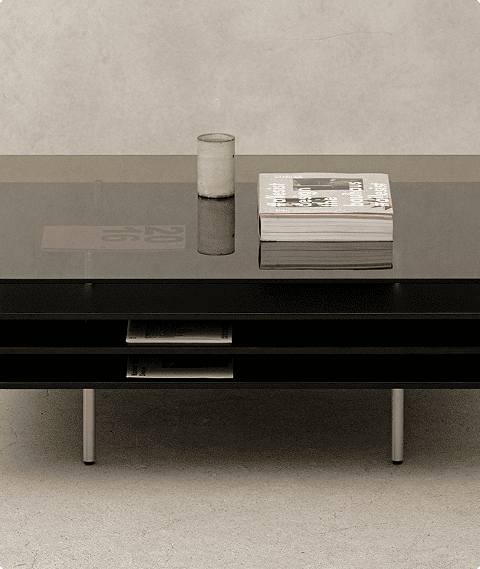
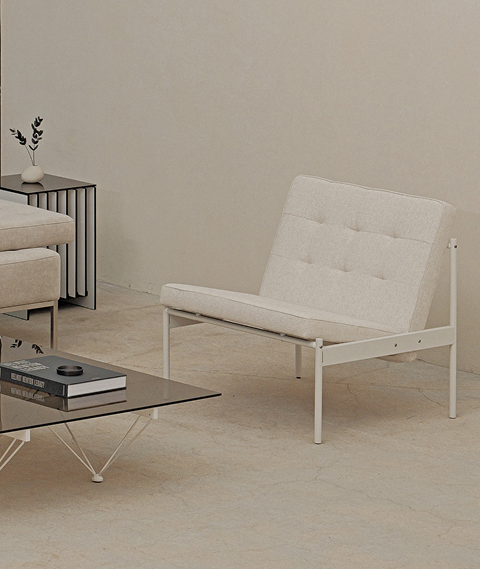
구매페이지까지 연결완

diff --git a/PRODUCT.html b/PRODUCT.html
@@ -152,10 +152,10 @@
                             </div>
                             <div class="goods-list">
                                 <div class="goods-left">
-                                    <span class="goods-name">Linear Sofa / Mix</span>
+                                    <span class="goods-name">Recto Lounge Chair</span>
                                     <div>
                                         <div class="goods-price">
-                                            <span class="price">2,240,000원</span>
+                                            <span class="price">850,000원</span>
                                             <span class="sale"></span>
                                         </div>
                                         <div class="goods-right">
@@ -171,11 +171,11 @@
                             </div>
                             <div class="goods-list">
                                 <div class="goods-left">
-                                    <span class="goods-name">Multi Sofa / Fabric</span>
+                                    <span class="goods-name">Homme Sofa | Leather</span>
                                     <div>
                                         <div class="goods-price">
-                                            <span class="price">2,030,000원</span>
-                                            <span class="sale">2,480,000원</span>
+                                            <span class="price">2,912,000원</span>
+                                            <span class="sale">3,640,000원</span>
                                         </div>
                                         <div class="goods-right">
                                             <p>20%</p>
@@ -190,11 +190,11 @@
                             </div>
                             <div class="goods-list">
                                 <div class="goods-left">
-                                    <span class="goods-name">Linear Sofa / Mix</span>
+                                    <span class="goods-name">Fin Shelf | S</span>
                                     <div>
                                         <div class="goods-price">
-                                            <span class="price">2,240,000원</span>
-                                            <span class="sale">2,480,000원</span>
+                                            <span class="price">468,000원</span>
+                                            <span class="sale">520,000원</span>
                                         </div>
                                         <div class="goods-right">
                                             <p>10%</p>
@@ -213,11 +213,11 @@
                             </div>
                             <div class="goods-list">
                                 <div class="goods-left">
-                                    <span class="goods-name">Linear Sofa / Mix</span>
+                                    <span class="goods-name">Lay Sofa | Fabric</span>
                                     <div>
                                         <div class="goods-price">
-                                            <span class="price">2,240,000원</span>
-                                            <span class="sale">2,480,000원</span>
+                                            <span class="price">3,078,000원</span>
+                                            <span class="sale">3,420,000원</span>
                                         </div>
                                         <div class="goods-right">
                                             <p>10%</p>
@@ -232,10 +232,10 @@
                             </div>
                             <div class="goods-list">
                                 <div class="goods-left">
-                                    <span class="goods-name">Linear Sofa / Mix</span>
+                                    <span class="goods-name">Largo Sofa | Leather</span>
                                     <div>
                                         <div class="goods-price">
-                                            <span class="price">2,240,000원</span>
+                                            <span class="price">4,120,000원</span>
                                             <span class="sale"></span>
                                         </div>
                                         <div class="goods-right">
@@ -251,11 +251,11 @@
                             </div>
                             <div class="goods-list">
                                 <div class="goods-left">
-                                    <span class="goods-name">Linear Sofa / Mix</span>
+                                    <span class="goods-name">Truss Shelf</span>
                                     <div>
                                         <div class="goods-price">
-                                            <span class="price">2,240,000원</span>
-                                            <span class="sale">2,480,000원</span>
+                                            <span class="price">549,000원</span>
+                                            <span class="sale">610,000원</span>
                                         </div>
                                         <div class="goods-right">
                                             <p>10%</p>
@@ -274,11 +274,11 @@
                             </div>
                             <div class="goods-list">
                                 <div class="goods-left">
-                                    <span class="goods-name">Linear Sofa / Mix</span>
+                                    <span class="goods-name">Piloti Sideboard | High</span>
                                     <div>
                                         <div class="goods-price">
-                                            <span class="price">2,240,000원</span>
-                                            <span class="sale">2,480,000원</span>
+                                            <span class="price">1,440,000원</span>
+                                            <span class="sale">1,600,000원</span>
                                         </div>
                                         <div class="goods-right">
                                             <p>10%</p>
@@ -293,10 +293,10 @@
                             </div>
                             <div class="goods-list">
                                 <div class="goods-left">
-                                    <span class="goods-name">Linear Sofa / Mix</span>
+                                    <span class="goods-name">Piloti Sideboard</span>
                                     <div>
                                         <div class="goods-price">
-                                            <span class="price">2,240,000원</span>
+                                            <span class="price">1,250,000원</span>
                                             <span class="sale"></span>
                                         </div>
                                         <div class="goods-right">
@@ -312,11 +312,11 @@
                             </div>
                             <div class="goods-list">
                                 <div class="goods-left">
-                                    <span class="goods-name">Linear Sofa / Mix</span>
+                                    <span class="goods-name">Column Shelf | 2X3</span>
                                     <div>
                                         <div class="goods-price">
-                                            <span class="price">2,240,000원</span>
-                                            <span class="sale">2,480,000원</span>
+                                            <span class="price">846,000원</span>
+                                            <span class="sale">940,000원</span>
                                         </div>
                                         <div class="goods-right">
                                             <p>10%</p>
